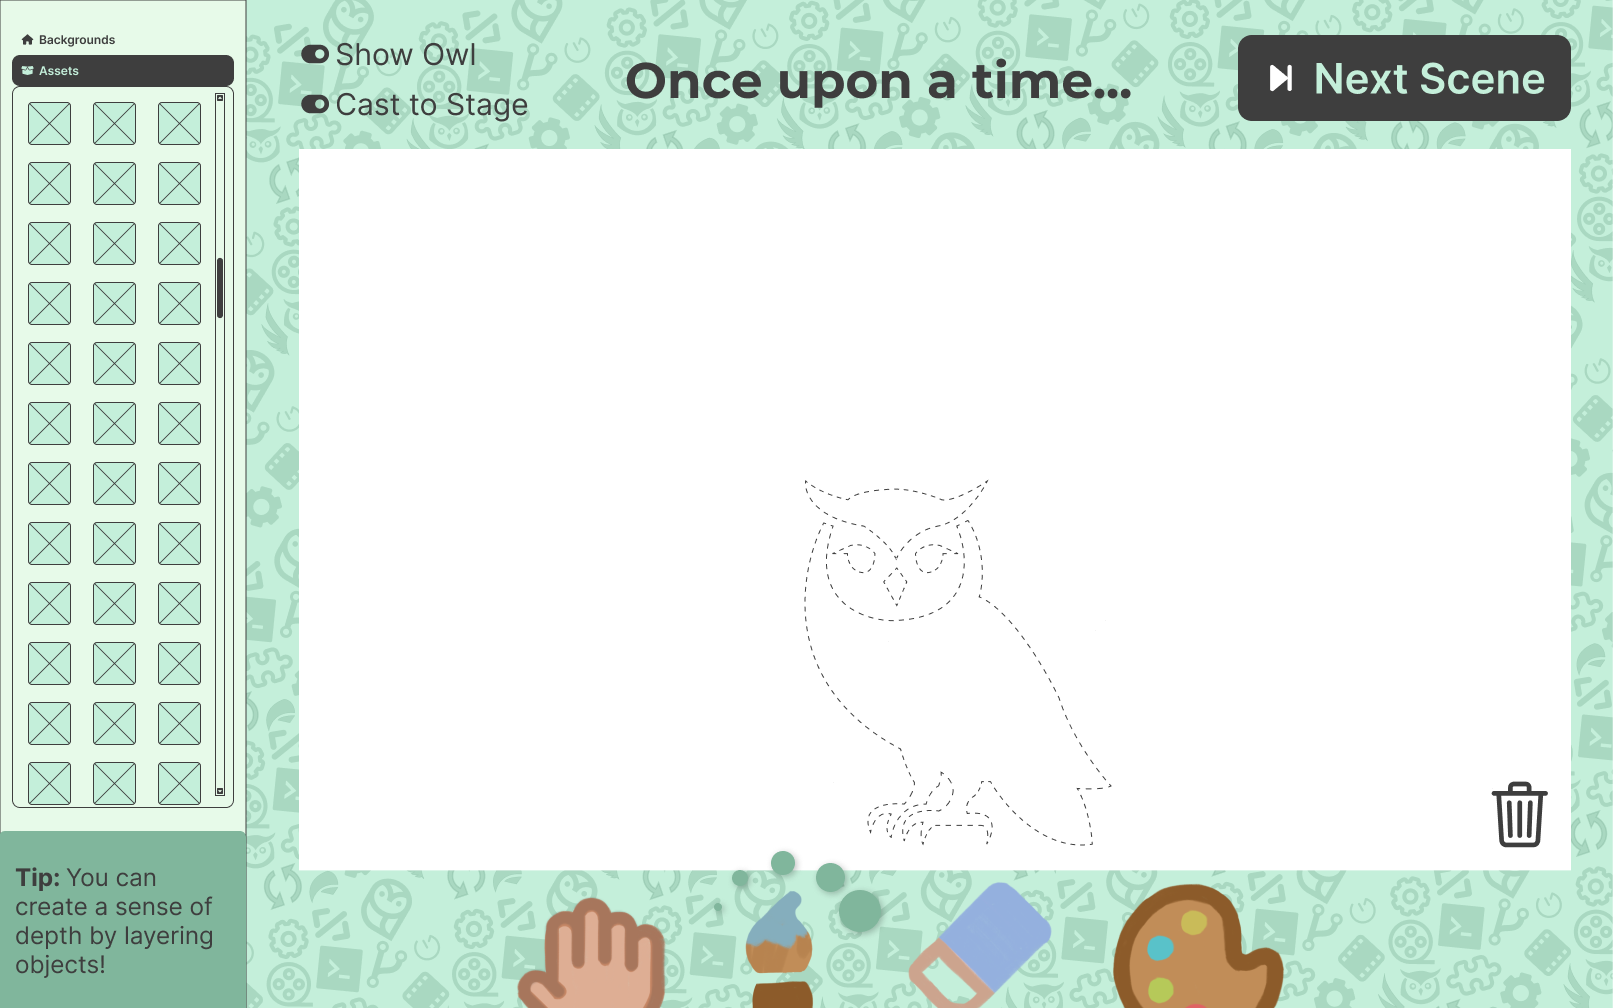
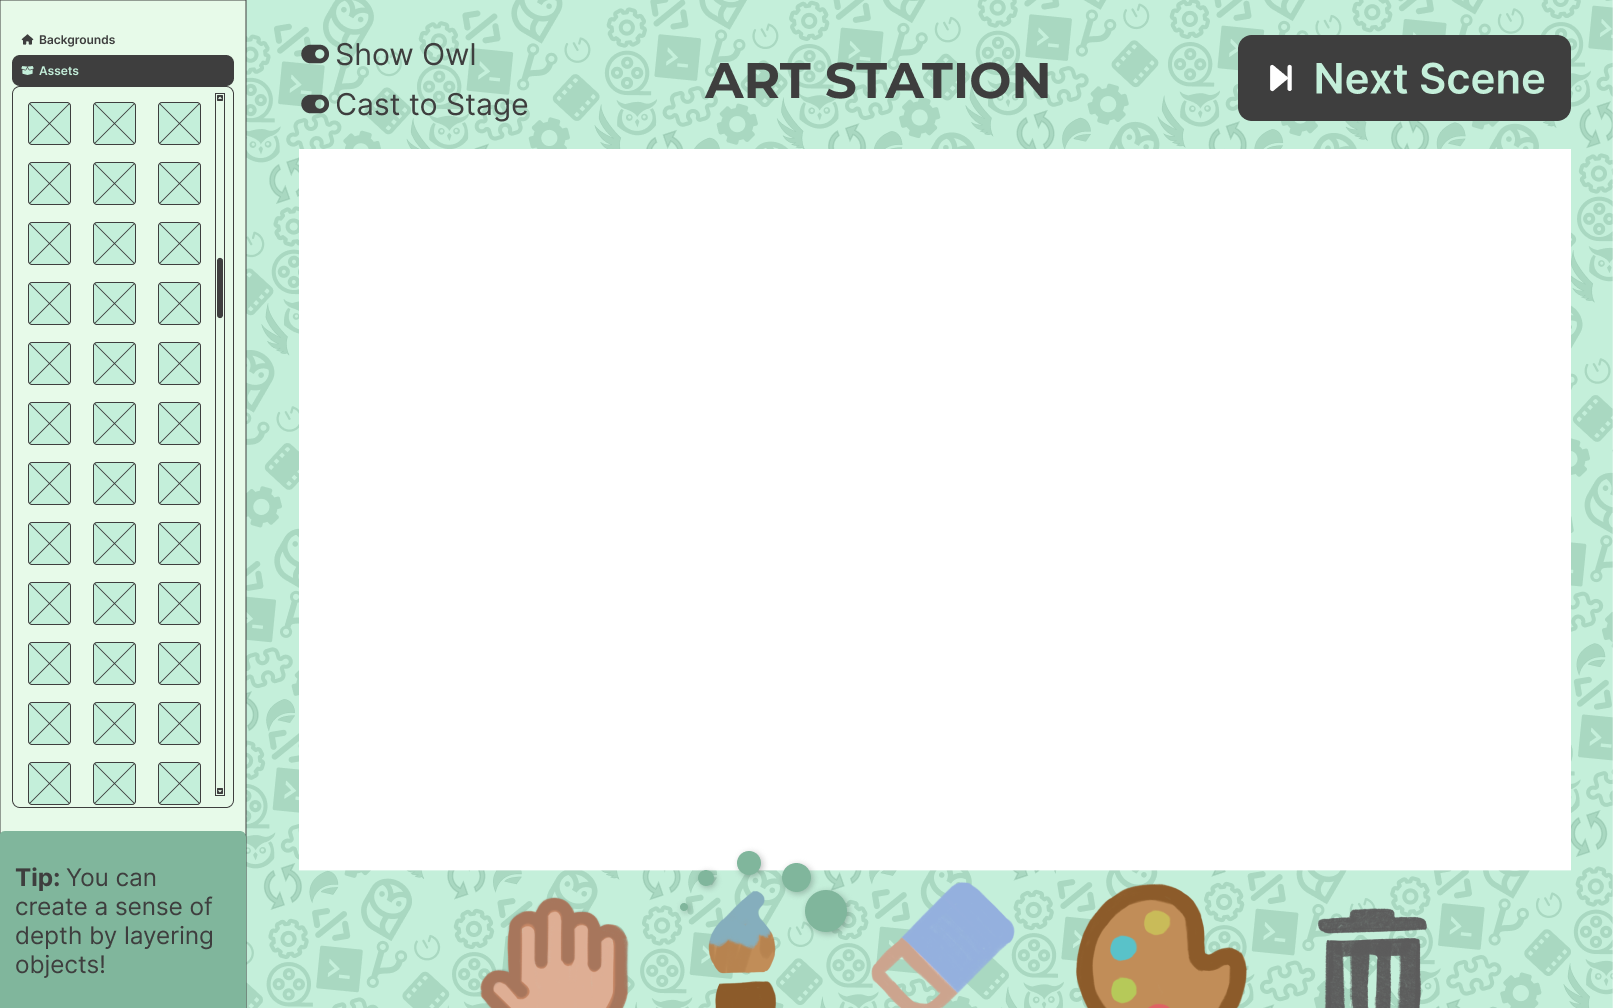
little owl mockup

Changed region(s): [[0.279, 0.8304, 0.8989, 1.0], [0.372, 0.0615, 0.682, 0.123], [0.9299, 0.7688, 0.9609, 0.8611]]

diff --git a/littleowl.html b/littleowl.html
@@ -246,7 +246,7 @@
  -->
 
 
-        <!-- 
+        <!--
         <section class="project-header">
             <div class="header-content">
 
@@ -547,6 +547,24 @@
             </section>
             <section class="case-section">
                 <div class="section-content" id="interfaces">
+                    <section class="detail">
+                        <div class="detail-container">
+                            <h3 class="title">Interfaces</h3>
+                            <div class="text-content">
+                                <p>The final interfaces for all five stations: Art, Programming, Lighting, Sound and
+                                    Facilitator. Each station has its own colour, but they share the same pattern
+                                    background and block-based visual language so the experience feels like one
+                                    system.</p>
+                            </div>
+                        </div>
+                    </section>
+                    <img src="Assets/LittleOwl/LittleOwl Mockup.png" width=100% alt="Art Project 1" class="art-item"
+                        onclick="openGallery(0)">
+                    <br>
+                </div>
+            </section>
+            <section class="case-section">
+                <div class="section-content">
                     <div id="art-station">
 
                         <h3 class="title">Art Station</h3>
